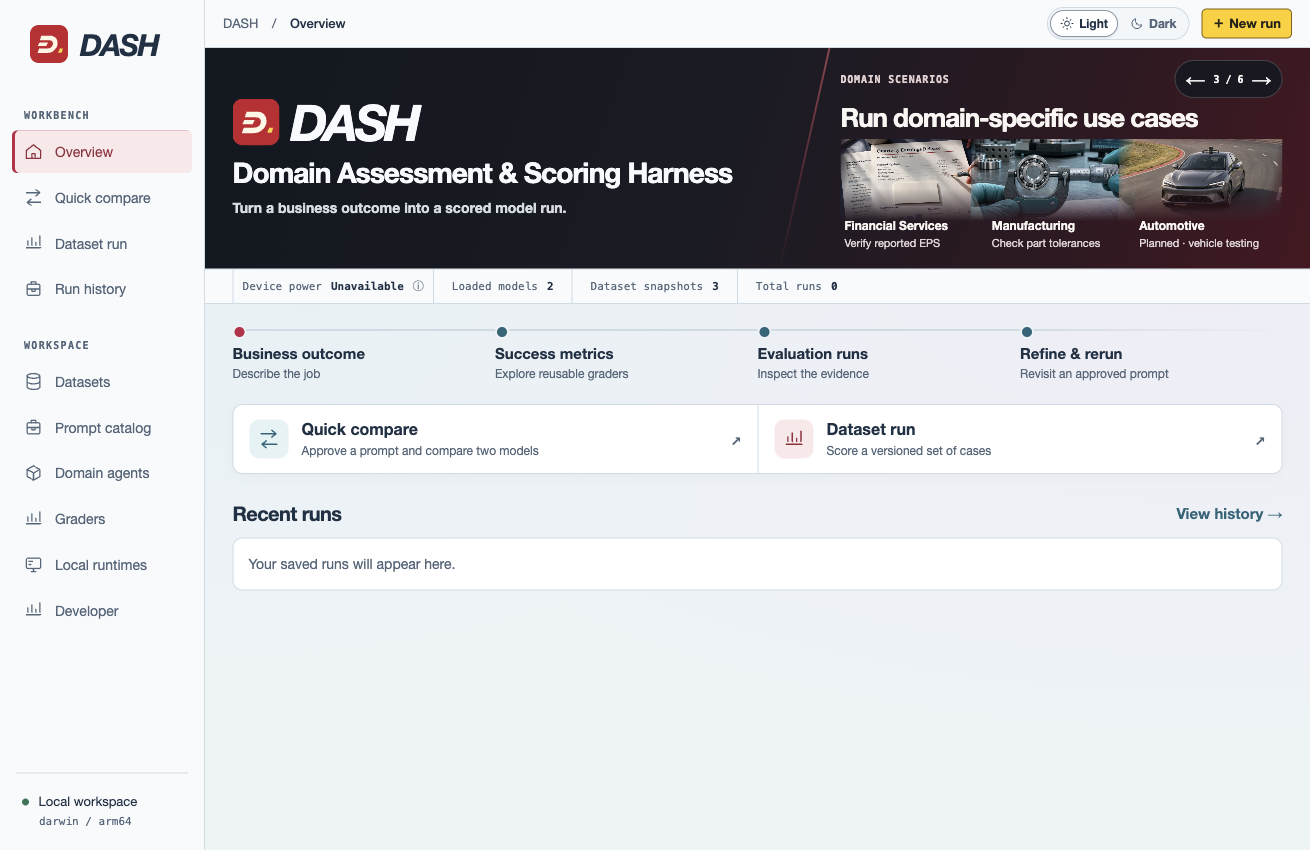
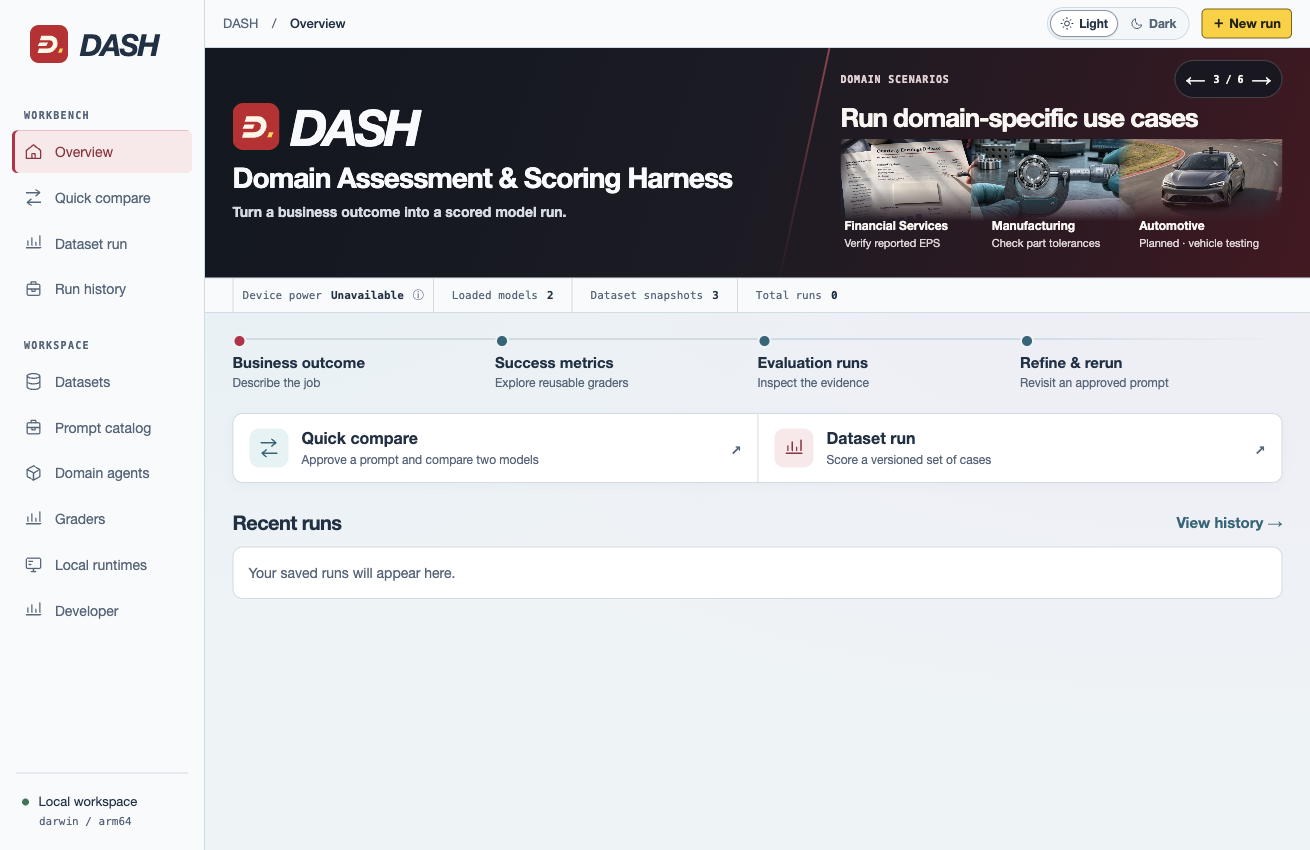
design: illustrate each DASH capability and reserve the race for benchmarking (#21)

diff --git a/dash-desktop/ui/capabilities.ts b/dash-desktop/ui/capabilities.ts
@@ -1,9 +1,6 @@
 "use strict";
 
 const modelGrid = ["Open Source", "Frontier Labs", "FineTuned"];
-const domainAgentGrid = ["Financial expert", "Financial implementer", "Output analyzer"];
-const inspectionGrid = ["Manufacturing expert", "Manufacturing implementer", "Report agent"];
-
 const industryTitle = "Run domain-specific use cases";
 const industryExamples = [
   { domain: "Financial Services", decision: "Verify reported EPS", image: "financial" },
@@ -11,19 +8,22 @@ const industryExamples = [
   { domain: "Automotive", decision: "Planned · vehicle testing", image: "automotive" },
 ];
 
-const scenes = [
-  { context: "Business outcome", title: "Start with the decision",
-    detail: "Describe the job in one sentence. A domain expert suggests success criteria you can edit.", lanes: domainAgentGrid },
-  { context: "Quick compare", title: "Give two models the same task",
-    detail: "Send one approved prompt to local or hosted models. Compare their answers against the same rubric.", lanes: modelGrid },
-  { context: "Domain scenarios", title: industryTitle, visual: "industries",
-    detail: "Check whether earnings per share are reported or adjusted. Flag parts that fall outside the drawing’s tolerances.", lanes: domainAgentGrid },
-  { context: "Grading · Opik experiments", title: "Score a whole set of cases",
-    detail: "Grade a versioned dataset against expert references or your rubric. Compare candidates in Opik.", lanes: modelGrid },
-  { context: "Run report", title: "See what supports the verdict",
-    detail: "Inspect the case scores alongside response time, token use and measured device power.", lanes: modelGrid },
-  { context: "Planned · Hardware in the loop", title: "Test on connected hardware",
-    detail: "Evaluate how agents respond to signals from a physical device.", lanes: inspectionGrid },
+type CapabilityVisual = "objective" | "race" | "industries" | "grading" | "report" | "hardware";
+interface CapabilityScene { context: string; title: string; detail: string; visual: CapabilityVisual }
+
+const scenes: readonly CapabilityScene[] = [
+  { visual: "objective", context: "Business outcome", title: "Start with the decision",
+    detail: "Describe the job. Your domain expert suggests checks you can edit before a run." },
+  { visual: "race", context: "Quick compare", title: "Compare and benchmark multiple models",
+    detail: "Choose two models per run. Compare their answers to the same prompt against one rubric." },
+  { visual: "industries", context: "Domain scenarios", title: industryTitle,
+    detail: "Check whether earnings per share are reported or adjusted. Flag parts that fall outside the drawing’s tolerances." },
+  { visual: "grading", context: "Dataset grading", title: "Score a whole set of cases",
+    detail: "Apply a rubric to each answer in a dataset version. Compare the results in Opik when synced." },
+  { visual: "report", context: "Run report · Example", title: "See what supports the verdict",
+    detail: "Trace a case score to its grader’s reason. Review latency, tokens and available power readings alongside it." },
+  { visual: "hardware", context: "Planned · Hardware in the loop", title: "Test on connected hardware",
+    detail: "Replay a sensor reading through an agent and record its response for evaluation." },
 ];
 const reducedBannerMotion = matchMedia("(prefers-reduced-motion: reduce)");
 let currentScene = 0;
@@ -42,16 +42,27 @@ function outcomeTrack() {
     ).join("") + '</ol></section>';
 }
 
-function capabilityCopy(scene: (typeof scenes)[number]) {
+function capabilityCopy(scene: CapabilityScene) {
   return '<h2>' + esc(scene.title) + '</h2><p class="capability-detail">' + esc(scene.detail) + '</p>';
+}
+
+function capabilityIllustration(visual: CapabilityVisual): string {
+  if (visual === "industries") return "";
+  if (visual === "race") {
+    const lanes = modelGrid.map(name => '<div><small>' + esc(name) +
+      '</small><span>' + svg("car", "banner-car") + '</span></div>').join("");
+    return '<div class="banner-track" aria-hidden="true">' + lanes + '</div>';
+  }
+  const template = document.getElementById("diagram-" + visual);
+  if (!(template instanceof HTMLTemplateElement)) throw new Error("Missing Overview diagram: " + visual);
+  return template.innerHTML;
 }
 
 function bannerCapabilities() {
   const scene = scenes[currentScene];
-  const sizers = scenes.map(item => '<div class="capability-sizer" aria-hidden="true">' +
+  const sizers = scenes.filter(item => item.visual !== "industries").map(item =>
+    '<div class="capability-sizer" aria-hidden="true" data-visual="' + item.visual + '">' +
     capabilityCopy(item) + '</div>').join("");
-  const lanes = scene.lanes.map(name => '<div><small>' + esc(name) +
-    '</small><span>' + svg("car", "banner-car") + '</span></div>').join("");
   const button = (action: string, label: string, icon: string) => '<button type="button" data-carousel="' + action +
     '" aria-label="' + label + '" title="' + label + '" aria-controls="dash-capability-slide"><span aria-hidden="true">' +
     icon + '</span></button>';
@@ -61,14 +72,14 @@ function bannerCapabilities() {
       '</strong><small>' + esc(decision) + '</small></figcaption></figure>').join("") + '</div></div>';
   const position = (currentScene + 1) + " / " + scenes.length;
   return '<section class="capability-reel" aria-roledescription="carousel" aria-label="DASH overview" data-scene="' +
-    currentScene + '" data-visual="' + (scene.visual ?? "race") + '" data-playing="' + playing + '"><div class="capability-toolbar"><p class="capability-context">' +
+    currentScene + '" data-visual="' + scene.visual + '" data-playing="' + playing + '"><div class="capability-toolbar"><p class="capability-context">' +
     esc(scene.context) + '</p><div class="capability-controls">' +
     button("previous", "Previous slide", "←") + '<span class="capability-position" aria-hidden="true">' + position + '</span>' +
     button("next", "Next slide", "→") + button("playback", playing ? "Pause slideshow" : "Play slideshow", "") +
     '</div></div><div class="capability-slide" id="dash-capability-slide" role="group" aria-roledescription="slide" aria-label="' +
-    (currentScene + 1) + ' of ' + scenes.length + '"><div class="capability-standard"><div class="capability-copy"><div class="capability-frame">' +
-    capabilityCopy(scene) + '</div>' + sizers + '</div><div class="banner-track" aria-hidden="true">' +
-    lanes + '</div></div>' + gallery + '</div><span class="capability-announcement" role="status" aria-atomic="true"></span></section>';
+    (currentScene + 1) + ' of ' + scenes.length + '"><div class="capability-standard"><div class="capability-live"><div class="capability-frame">' +
+    capabilityCopy(scene) + '</div><div class="capability-illustration">' +
+    capabilityIllustration(scene.visual) + '</div></div>' + sizers + '</div>' + gallery + '</div><span class="capability-announcement" role="status" aria-atomic="true"></span></section>';
 }
 
 function setPlaying(reel: HTMLElement, value: boolean) {
@@ -87,7 +98,7 @@ function moveScene(reel: HTMLElement, direction: number, manual: boolean) {
   const scene = scenes[currentScene];
   const number = currentScene + 1;
   reel.dataset.scene = String(currentScene);
-  reel.dataset.visual = scene.visual ?? "race";
+  reel.dataset.visual = scene.visual;
   const context = reel.querySelector(".capability-context");
   const frame = reel.querySelector(".capability-frame");
   const position = reel.querySelector(".capability-position");
@@ -95,7 +106,8 @@ function moveScene(reel: HTMLElement, direction: number, manual: boolean) {
   if (frame) frame.innerHTML = capabilityCopy(scene);
   if (position) position.textContent = number + " / " + scenes.length;
   reel.querySelector(".capability-slide")?.setAttribute("aria-label", number + " of " + scenes.length);
-  reel.querySelectorAll(".banner-track small").forEach((label, i) => { label.textContent = scene.lanes[i]; });
+  const illustration = reel.querySelector(".capability-illustration");
+  if (illustration) illustration.innerHTML = capabilityIllustration(scene.visual);
   const announcement = reel.querySelector(".capability-announcement");
   if (manual && announcement) {
     announcement.textContent = "Slide " + number + " of " + scenes.length + ". " + scene.title;

diff --git a/dash-desktop/ui/index.html b/dash-desktop/ui/index.html
@@ -111,6 +111,59 @@
       </header>
       <main id="screen" tabindex="-1"></main>
     </div>
+    <template id="diagram-objective">
+      <svg class="flow-diagram" viewBox="0 0 360 72" role="img" aria-label="Example objective: extract earnings per share. Suggested checks: GAAP basis and fiscal period." preserveAspectRatio="xMinYMid meet">
+        <path class="diagram-paper" d="M2 6h108l14 14v44H2z"/>
+        <path class="diagram-rule" d="M110 6v14h14"/>
+        <text class="diagram-key" x="14" y="28">OBJECTIVE</text>
+        <text class="diagram-value" x="14" y="50">Extract EPS</text>
+        <path class="diagram-wire" d="M124 39h21q8 0 14-6l4-4q4-4 10-4h17m-45 14q8 0 14 6l4 4q4 4 10 4h17"/>
+        <circle class="diagram-port" cx="190" cy="25" r="3"/><circle class="diagram-port" cx="190" cy="53" r="3"/>
+        <text class="diagram-key" x="204" y="11">SUGGESTED CHECKS</text>
+        <text class="diagram-value" x="204" y="31">GAAP basis</text>
+        <text class="diagram-value" x="204" y="59">Fiscal period</text>
+        <path class="diagram-sweep" pathLength="100" d="M124 39h21q8 0 14-6l4-4q4-4 10-4h17"/>
+      </svg>
+    </template>
+    <template id="diagram-grading">
+      <svg class="flow-diagram" viewBox="0 0 360 72" role="img" aria-label="Each dataset case produces an answer. The grader checks it against the rubric to produce a case score." preserveAspectRatio="xMinYMid meet">
+        <g class="diagram-paper">
+          <rect x="4" y="12" width="35" height="24" rx="3"/><rect x="9" y="8" width="35" height="24" rx="3"/><rect x="14" y="4" width="35" height="24" rx="3"/>
+        </g>
+        <path class="diagram-rule" d="M21 12h18m-18 7h11"/>
+        <path class="diagram-wire" d="M53 20h44m-5-4 5 4-5 4m60-4h39m-5-4 5 4-5 4m58-4h40m-5-4 5 4-5 4"/>
+        <path class="diagram-paper" d="M109 5h31q3 0 3 3v19q0 3-3 3h-20l-9 7v-7h-2q-3 0-3-3V8q0-3 3-3z"/>
+        <path class="diagram-rule" d="M114 14h20m-20 7h14"/>
+        <rect class="diagram-paper" x="199" y="4" width="35" height="31" rx="4"/>
+        <path class="diagram-rule" d="m205 14 2 2 4-5m3 3h13m-22 9 2 2 4-5m3 3h13"/>
+        <path class="diagram-paper" d="M291 4h24l9 9v23h-33z"/><path class="diagram-rule" d="M315 4v9h9m-26 14v-5m6 5V17m6 10v-7"/>
+        <g class="diagram-value"><text x="2" y="58">Case</text><text x="100" y="58">Answer</text><text x="193" y="58">Rubric</text><text x="270" y="58">Case score</text></g>
+        <path class="diagram-sweep" pathLength="100" d="M53 20h42m58 0h38m55 0h38"/>
+      </svg>
+    </template>
+    <template id="diagram-report">
+      <svg class="flow-diagram" viewBox="0 0 360 72" role="img" aria-label="Example earnings case. Expected basis: GAAP. Returned basis: adjusted. The case fails the basis check." preserveAspectRatio="xMinYMid meet">
+        <path class="diagram-rule" d="M2 6h190M2 35h190M2 65h190"/>
+        <text class="diagram-key" x="5" y="25">EXPECTED</text><text class="diagram-value" x="90" y="26">GAAP</text>
+        <text class="diagram-key" x="5" y="55">RETURNED</text><text class="diagram-value" x="90" y="56">Adjusted</text>
+        <path class="diagram-wire" d="M195 19h7q5 0 5 6v4q0 6 7 6h12m-31 16h7q5 0 5-6v-4q0-6 7-6"/>
+        <circle class="diagram-alert" cx="238" cy="35" r="8"/><path class="diagram-alert" d="M238 31v5m0 3v.2"/>
+        <text class="diagram-key" x="254" y="26">CASE VERDICT</text>
+        <text class="diagram-value" x="254" y="47">Basis mismatch</text>
+        <path class="diagram-sweep" pathLength="100" d="M195 51h7q5 0 5-6v-4q0-6 7-6h12"/>
+      </svg>
+    </template>
+    <template id="diagram-hardware">
+      <svg class="flow-diagram" viewBox="0 0 360 72" role="img" aria-label="Planned hardware loop: sample a sensor, observe the agent response, record it, and sample again." preserveAspectRatio="xMinYMid meet">
+        <path class="diagram-wire" d="M69 18h51m-5-4 5 4-5 4m113-4h53m-5-4 5 4-5 4"/>
+        <path class="diagram-rule" d="M4 19h9l5-10 8 23 9-27 6 14h14"/>
+        <rect class="diagram-paper" x="145" y="5" width="40" height="25" rx="4"/><path class="diagram-rule" d="M151 12h7m4 0h15m-26 10h21m-32-10h5m-5 10h5m40-10h5m-5 10h5"/>
+        <rect class="diagram-paper" x="303" y="5" width="37" height="26" rx="3"/><path class="diagram-rule" d="M310 12h23m-23 6h17m-17 6h20"/>
+        <g class="diagram-value"><text x="3" y="48">Sensor</text><text x="116" y="48">Agent response</text><text x="285" y="48">Case log</text></g>
+        <path class="diagram-return" d="M321 54v7q0 4-5 4H33q-5 0-5-4v-7m-4 4 4-4 4 4"/>
+        <path class="diagram-sweep" pathLength="100" d="M321 54v7q0 4-5 4H33q-5 0-5-4v-7"/>
+      </svg>
+    </template>
     <div id="msg" role="status" hidden></div>
   </body>
 </html>

diff --git a/dash-desktop/ui/overview.css b/dash-desktop/ui/overview.css
@@ -68,14 +68,13 @@ body:has(.overview) .desk > header .button {
   content: "";
   pointer-events: none;
 }
-.capability-reel::before {
+.capability-reel:where([data-visual="race"])::before {
   clip-path: polygon(var(--cut) 0, 100% 0, 100% 100%, 0 100%);
   background:
     linear-gradient(0deg, #17161d6b, transparent 46%),
     url("assets/scarlet-circuit.jpg") 64% 52% / cover no-repeat;
   mask-image: linear-gradient(105deg, transparent 2%, #0005 32%, #000 78%);
   opacity: .86;
-  transition: opacity 350ms ease-out;
 }
 .capability-reel::after {
   width: calc(var(--cut) + 2px);
@@ -135,7 +134,7 @@ body:has(.overview) .desk > header .button {
 @media (prefers-reduced-motion: reduce) {
   .capability-controls [data-carousel="playback"] { display: none; }
 }
-.capability-slide, .capability-copy {
+.capability-slide, .capability-standard {
   display: grid;
   align-items: start;
 }
@@ -143,9 +142,6 @@ body:has(.overview) .desk > header .button {
 .industry-view { visibility: hidden; }
 .capability-reel[data-visual="industries"] .capability-standard { visibility: hidden; }
 .capability-reel[data-visual="industries"] .industry-view { visibility: visible; }
-.capability-reel[data-visual="industries"]::before {
-  opacity: 0;
-}
 .industry-examples {
   display: grid;
   grid-template-columns: repeat(3, minmax(0, 1fr));
@@ -174,7 +170,7 @@ body:has(.overview) .desk > header .button {
 .industry-examples strong, .industry-examples small { display: block; }
 .industry-examples strong { color: var(--track-paper); font-size: 12px; }
 .industry-examples small { margin-top: 3px; color: #e0d4d8; font-size: 11px; }
-.capability-sizer, .capability-frame { grid-area: 1 / 1; }
+.capability-sizer, .capability-live { grid-area: 1 / 1; }
 .capability-sizer { visibility: hidden; }
 .capability-context {
   margin: 0;
@@ -198,7 +194,38 @@ body:has(.overview) .desk > header .button {
   0%, 100% { opacity: 0; }
   3%, 97% { opacity: 1; }
 }
-.banner-track { display: grid; gap: 2px; margin-top: 10px; }
+.capability-illustration {
+  display: grid;
+  align-items: center;
+}
+.capability-sizer::after { content: ""; display: block; }
+.capability-sizer::after, .capability-illustration {
+  height: clamp(62px, 7cqw, 82px);
+  margin-top: 9px;
+}
+.capability-sizer[data-visual="race"]::after, .capability-reel[data-visual="race"] .capability-illustration { height: 52px; }
+.flow-diagram { display: block; width: 100%; height: 100%; min-width: 0; }
+.flow-diagram .diagram-value { font: 600 14px/1 "Helvetica Neue", Arial, sans-serif; fill: var(--track-paper); }
+.flow-diagram .diagram-key { font: 600 10px/1 var(--mono); letter-spacing: .06em; fill: #dcccd0; }
+.diagram-paper { fill: #26242e; stroke: #c0a9b2; stroke-width: 1.2; stroke-linejoin: round; }
+.diagram-rule, .diagram-wire, .diagram-alert, .diagram-return, .diagram-sweep {
+  fill: none; stroke-linejoin: round; stroke-linecap: round;
+}
+.diagram-rule { stroke: #d8c9d1; stroke-width: 1.3; }
+.diagram-wire, .diagram-return { stroke: #a3bbc3; stroke-width: 1.25; }
+.diagram-return { stroke-dasharray: 3 4; }
+.diagram-port { fill: #b2d8dd; }
+.diagram-alert { stroke: #ffaea5; stroke-width: 1.6; }
+.diagram-sweep { stroke: #dcf6f7; stroke-width: 2; stroke-dasharray: 12 112; opacity: 0; }
+.capability-reel[data-playing="true"] .diagram-sweep {
+  animation: diagram-signal 2.4s ease-in-out .35s 1 both;
+}
+@keyframes diagram-signal {
+  0% { stroke-dashoffset: 12; opacity: 0; }
+  18%, 70% { opacity: .85; }
+  100% { stroke-dashoffset: -100; opacity: 0; }
+}
+.banner-track { display: grid; gap: 2px; }
 .banner-track > div {
   display: grid;
   grid-template-columns: clamp(112px, 28%, 140px) minmax(0, 1fr);
@@ -392,7 +419,7 @@ a.overview-run:hover { background: var(--selected); }
   .capability-reel { padding: 9px var(--inset) 13px; }
   .capability-reel::before { clip-path: none; }
   .capability-reel::after { inset: 0 auto 0 0; width: 2px; clip-path: none; }
-  .banner-track { margin-top: 8px; }
+
 }
 @container (max-width: 560px) {
   .timing-strip { padding-inline: var(--inset); display:grid; grid-template-columns:repeat(2,minmax(0,1fr)); }

diff --git a/docs/design/README.md b/docs/design/README.md
@@ -1,6 +1,6 @@
 # DASH design assets
 
-The [circuit banner](../../dash-desktop/ui/assets/scarlet-circuit.jpg) is a locally bundled JPEG generated with OpenAI ImageGen. The interface places its own text, controls and animated cars over the photograph.
+The [circuit banner](../../dash-desktop/ui/assets/scarlet-circuit.jpg) is a locally bundled JPEG generated with OpenAI ImageGen. The **Compare and benchmark multiple models** slide places the three illustrative model families over this photograph. Quick compare selects two models for each run.
 
 ImageGen received the following prompt.
 
@@ -18,8 +18,14 @@ The [original prototype](DASH_Design_Prototype.html), [approved preview](DASH_De
 
 ## Industry photographs
 
-Slide 3 pairs each domain with its own locally bundled editorial photograph. The images were generated using OpenAI ImageGen and exported as JPEGs for offline use. The circuit and industry slides share a graphite-to-garnet ground. Feather the photographs at their edges and keep their centers clear. Captions sit below the photographs and identify the shipped examples and the Automotive roadmap. See the [desktop view](industry-overview.png) and [phone-width view](industry-overview-mobile.png) captured from Electron.
+Slide 3 pairs each domain with its own locally bundled editorial photograph. The images were generated using OpenAI ImageGen and exported as JPEGs for offline use. All six slides share a graphite-to-garnet ground. Feather the photographs at their edges and keep their centers clear. Captions sit below the photographs and identify the shipped examples and the Automotive roadmap. See the [desktop view](industry-overview.png) and [phone-width view](industry-overview-mobile.png) captured from Electron.
 
 - [Financial Services](../../dash-desktop/ui/assets/industry-financial.jpg) — Photorealistic editorial photograph for a DASH Financial Services banner, landscape 4:3. A close overhead view of a quarterly earnings release on ivory paper with paired columns of small printed financial figures, a small understated blue bar chart and a fingertip tracing one reported figure with a graphite pencil. A second sheet of financial statements beneath it on a navy desk. Strong natural window light, understated midnight blue and cream with a small muted crimson accent. Form a simple unmistakable focal point near the center for a small card. Real paper texture, clean precise editorial photography. No digital UI, overlaid titles, logos, car imagery or watermark.
 - [Manufacturing](../../dash-desktop/ui/assets/industry-manufacturing.jpg) — Photorealistic editorial photograph for a DASH Manufacturing banner, landscape 4:3. In a modern inspection lab, extreme close-up of a precision outside micrometer measuring the outer diameter of a silver machined bearing, discreet blue engineering drawing underneath on a dark slate inspection bench. A gloved technician's fingers hold the micrometer. Clear central silhouette of the bearing and measuring tool at small size. Directional cool daylight, brushed steel, restrained teal accent, tactile real detail. No overlaid titles, logos, car imagery or watermark.
 - [Automotive](../../dash-desktop/ui/assets/industry-automotive.jpg) — Photorealistic editorial photograph for a DASH Automotive proving-ground banner, landscape 4:3. A single unbranded, graphite-silver road vehicle with a small test sensor pod mounted on its roof drives a broad curved vehicle proving-ground track with minimal white lane markings. Elevated front three-quarter perspective, car prominently centered and clearly readable when small. Warm morning sun, muted asphalt, soft red curb accent. Professional, restrained automotive validation photography, not a racing competition. No spectators, logos, lettering, watermarks or overlaid text.
+
+## Capability diagrams
+
+[View all six slides captured in Electron](overview-capabilities.png).
+
+The four [inline diagrams](../../dash-desktop/ui/index.html) show an earnings objective branching into suggested checks, a dataset answer passing through a rubric, an example case with mismatched earnings bases, and the planned sensor feedback loop. A short highlight follows a connection when a diagram plays. Each diagram has a static reading order and an accessible description. Manual navigation pauses the carousel. [Presentation decision](../adr/0018-capability-diagrams.md)

diff --git a/docs/adr/0018-capability-diagrams.md b/docs/adr/0018-capability-diagrams.md
@@ -1,0 +1,18 @@
+# 0018. Illustrate each carousel slide with its own evaluation task
+
+**Status** Accepted
+
+A presenter showing DASH had the same racing illustration for setting an objective, grading cases and explaining a verdict. Nik asked for a diagram specific to each capability and one slide titled **Compare and benchmark multiple models** with the cars. This narrows the race treatment in [0015](0015-industry-carousel.md) and preserves the photography, palette and controls in [0017](0017-overview-controls-and-photography.md).
+
+| Slide | What the presenter can explain |
+| --- | --- |
+| Business outcome | An EPS extraction objective branches into suggested checks for GAAP basis and fiscal period. |
+| Model benchmark | Three illustrative model families share the circuit. Quick compare selects two models per run. |
+| Industry scenarios | The approved Financial Services, Manufacturing and planned Automotive photographs and captions stay together. |
+| Dataset grading | Follow a case through its answer and rubric to a case score. |
+| Run report | Inspect the reason for an example basis mismatch between an expected GAAP figure and an adjusted response. |
+| Planned hardware in the loop | Follow a sensor reading through an agent and into a case log, then repeat the observation. |
+
+Reusing the circuit for every slide obscured the difference between scoring a dataset and explaining a result. Four inline vector diagrams load offline and scale with the carousel. Only the current illustration is inserted into the active panel. Circuit imagery and animated car lanes belong to the model benchmark. A short accent travels along a connection while playback is enabled. The diagram labels and relationships remain legible when paused or when the operator requests reduced motion.
+
+Exercise all six slides through automatic and manual navigation in Electron. Check the exact benchmark title, exclusive use of the race artwork, accessible diagram descriptions, stable banner height and phone-width labels. [Renderer and slide order](../../dash-desktop/ui/capabilities.ts) · [Design guide](../design/README.md)

diff --git a/docs/adr/README.md b/docs/adr/README.md
@@ -31,6 +31,8 @@ Start here to learn why DASH works the way it does. Each numbered record explain
 | 2026-11-24 | [0016 · macOS identity](0016-macos-app-identity.md) | Accepted | Nik requested the DASH name, logo and tagline on macOS. Preserve the local profile across launch methods. | [Mac operator guide](../reader/src/first-run.md) |
 | 2026-11-24 | [0017 · Overview controls and photography](0017-overview-controls-and-photography.md) | Proposed | Extend 0007 and 0015 to give presentation controls a neutral treatment and retain a common banner palette. | [Design guide](../design/README.md) |
 | 2026-11-24 | [0017 · Overview controls and photography](0017-overview-controls-and-photography.md) | Accepted | Nik requested the Light/Dark and slide controls lose their yellow fill and the photography blend into a consistent background. | [Design decision](0017-overview-controls-and-photography.md) |
+| 2026-11-24 | [0018 · Capability diagrams](0018-capability-diagrams.md) | Proposed | Give each evaluation task its own illustration while preserving the shared banner palette. | [Design guide](../design/README.md) |
+| 2026-11-24 | [0018 · Capability diagrams](0018-capability-diagrams.md) | Accepted | Nik selected one benchmark race and distinct capability diagrams alongside the approved industry photographs. Extends 0015 and 0017. | [Carousel implementation](../../dash-desktop/ui/capabilities.ts) |
 
 ## Maintaining the history
 

diff --git a/docs/reader/src/index.md b/docs/reader/src/index.md
@@ -4,7 +4,7 @@
 
 DASH helps you test whether a model makes the right business decision. A Financial Services team can check whether an earnings extractor reports GAAP EPS. A Manufacturing team can check whether an inspector releases a part against the correct drawing revision.
 
-On **Overview**, choose **Light** or **Dark** in the header. Use the arrows in the banner to move through the slides at your own pace. **Run domain-specific use cases** shows the three industry examples together. The earnings review and part inspection have runnable scenarios. The Automotive proving-ground example is planned.
+On **Overview**, choose **Light** or **Dark** in the header. Use the arrows in the banner to move through the slides at your own pace. **Compare and benchmark multiple models** introduces the two-model Quick compare. The other diagrams show how an objective becomes suggested checks, how a rubric scores an answer, how to read a case verdict, and how the planned hardware loop would work. **Run domain-specific use cases** shows the three industry examples together. The earnings review and part inspection have runnable scenarios. The Automotive proving-ground example is planned.
 
 **New to DASH?** [Start with a recorded earnings case](first-run.md). See why a recorded answer fails the scenario grader before choosing a live model.
 
